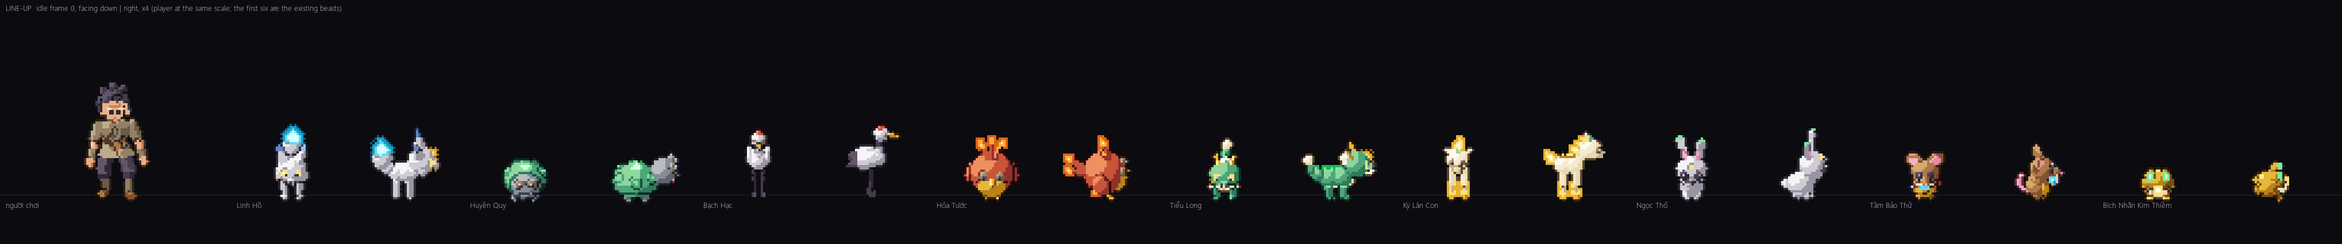
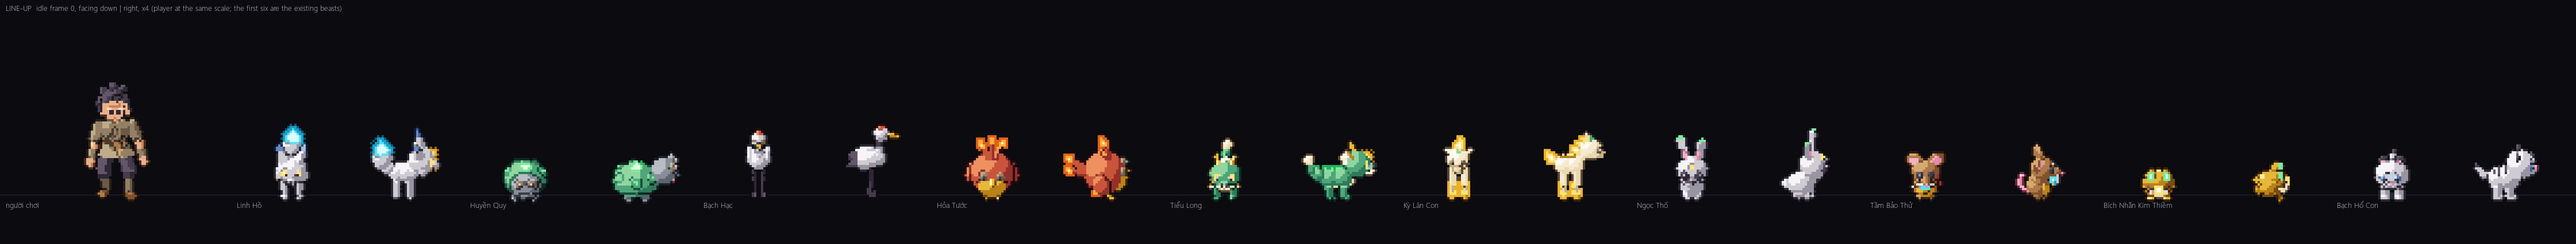
Toán tu tiên: linh thú đợt B - Bạch Hổ Con

diff --git a/art/src/beasts_b/bach_ho_con.py b/art/src/beasts_b/bach_ho_con.py
@@ -1,0 +1,103 @@
+"""Bạch Hổ Con: the white tiger cub, child of one of the four sacred beasts. Runs inside
+Blender (see scene.py).
+
+A chunky kitten-proportioned tiger: big round head with fluffy cheek ruffs, small round
+ears, a wide white muzzle with a pink nose, glowing ice-blue eyes (the metal-white aura of
+the White Tiger), a small glowing diamond on the brow, dark stripes (arcs over the back,
+brow and cheek strokes, rings on the tail and a dark tail tip), thick legs and big paws.
+Built on the shared quadruped rig (monsters_a/quadrupeds.py: IK legs, paws kept level);
+the clip poses come from common.quad_poses and get a cat's butt-wiggle before the pounce.
+"""
+from __future__ import annotations
+
+import math
+
+from common import (S, att, aim, ball, box, cute_eyes, eye_mats, eyes_bone, finish, glow, hexc, mat,
+                    merge, quad_armature, quad_extra_poses, quad_poses, set_ramp, tube, use_collection)
+
+
+def arc_stripe(name, m, y, zc, rx, rz, a0=28, a1=152, r=0.011, n=9):
+    """A stripe over the back: an arc in the x-z plane at depth y round (0, y, zc)."""
+    pts = []
+    for k in range(n):
+        a = math.radians(a0 + (a1 - a0) * k / (n - 1))
+        pts.append((rx * math.cos(a), y, zc + rz * math.sin(a)))
+    return tube(name, pts, [r * (0.6 if k in (0, n - 1) else 1.0) for k in range(n)], m, seg=6)
+
+
+def build():
+    use_collection("COL_bach_ho_con")
+    fur = mat("MAT_bhc_fur", "#cfcbd3", "bone")
+    fur_sh = mat("MAT_bhc_fur_shade", "#9894a2", "bone")
+    stripe = mat("MAT_bhc_stripe", "#2e2834", "hair")
+    inner = mat("MAT_bhc_inner", "#f6b0c4", "pink")
+    nose = mat("MAT_bhc_nose", "#e88aa6", "pink")
+    mark = glow("MAT_bhc_brow_mark", "#b0dcff", "ice", 3.0, halo=0)
+    mark["kit_priority"] = 3.0
+    eyes = eye_mats("bhc", hexc("#6488c4"))
+    set_ramp(eyes[0], "blue")           # saturated blue cub eyes; on white fur a pale glow vanished
+
+    HY, HZ = -0.18, 0.43
+    P = {"h": 0.23, "yf": -0.06, "yb": 0.085, "x": 0.085, "knee": 0.11,
+         "head": (-0.11, 0.30), "hlen": 0.2, "jaw": (-0.26, 0.38),
+         "tail": ((0.14, 0.24), (0.25, 0.27), (0.33, 0.36))}
+    arm = quad_armature("bach_ho_con", P, extra=[eyes_bone(HY - 0.1, HZ + 0.02)])
+    att(arm, "chest", ball("bhc_chest", (0.14, 0.13, 0.125), (0, -0.03, 0.25), fur),
+        ball("bhc_bib", (0.10, 0.06, 0.09), (0, -0.11, 0.23), fur),
+        arc_stripe("bhc_st1", stripe, -0.01, 0.25, 0.143, 0.13, 50, 130))
+    att(arm, "pelvis", ball("bhc_rump", (0.13, 0.12, 0.12), (0, 0.075, 0.24), fur),
+        arc_stripe("bhc_st3", stripe, 0.06, 0.245, 0.133, 0.122, 42, 138),
+        arc_stripe("bhc_st4", stripe, 0.125, 0.24, 0.115, 0.10, 55, 125))
+    hd = [ball("bhc_head", (0.185, 0.16, 0.155), (0, HY, HZ), fur),
+          ball("bhc_ruffl", (0.07, 0.07, 0.06), (0.125, HY + 0.01, HZ - 0.06), fur, seg=10, rings=6),
+          ball("bhc_ruffr", (0.07, 0.07, 0.06), (-0.125, HY + 0.01, HZ - 0.06), fur, seg=10, rings=6),
+          ball("bhc_padl", (0.045, 0.04, 0.036), (0.035, HY - 0.135, HZ - 0.065), fur, seg=10, rings=6),
+          ball("bhc_padr", (0.045, 0.04, 0.036), (-0.035, HY - 0.135, HZ - 0.065), fur, seg=10, rings=6),
+          ball("bhc_nose", (0.03, 0.02, 0.018), (0, HY - 0.165, HZ - 0.035), nose, seg=8, rings=5),
+          box("bhc_mark", (0.03, 0.012, 0.03), (0, HY - 0.152, HZ + 0.075), mark, rot=(-30, 45, 0)),
+          ]
+    for s in (1, -1):
+        # round ears: dark backs, pink fronts
+        hd += [ball(f"bhc_ear{s}", (0.055, 0.026, 0.055), (s * 0.10, HY + 0.035, HZ + 0.155), stripe, rot=(0, s * 25, 0), seg=10, rings=6),
+               ball(f"bhc_eari{s}", (0.042, 0.014, 0.04), (s * 0.098, HY + 0.017, HZ + 0.152), inner, rot=(0, s * 25, 0), seg=10, rings=6),
+               ball(f"bhc_earw{s}", (0.03, 0.015, 0.022), (s * 0.104, HY + 0.012, HZ + 0.13), fur, rot=(0, s * 25, 0), seg=8, rings=5)]
+        # brow strokes (diagonal, never a bar pattern) and two cheek strokes on each ruff
+        hd.append(tube(f"bhc_brow_stripe{s}", [(s * 0.03, HY - 0.14, HZ + 0.085), (s * 0.055, HY - 0.13, HZ + 0.11),
+                                                (s * 0.07, HY - 0.115, HZ + 0.125)], [0.007, 0.01, 0.006], stripe, seg=6))
+        hd.append(tube(f"bhc_cheek_stripe{s}", [(s * 0.19, HY + 0.0, HZ - 0.05), (s * 0.17, HY - 0.05, HZ - 0.06)],
+                       [0.008, 0.005], stripe, seg=6))
+    att(arm, "head", *hd)
+    att(arm, "eyes", *cute_eyes("bhc", 0.064, HY - 0.122, HZ + 0.015, 0.05, eyes))
+    att(arm, "jaw", aim("bhc_jaw", fur_sh, (0, HY - 0.07, HZ - 0.09), (0, HY - 0.15, HZ - 0.10), 0.04, 0.024, seg=8))
+    for side, sx in (("l", 1), ("r", -1)):
+        for leg, y in (("f", P["yf"]), ("b", P["yb"])):
+            x = sx * P["x"]
+            att(arm, f"{leg}{side}1", aim(f"bhc_{leg}{side}up", fur, (x, y, 0.20), (x, y, 0.10), 0.06 if leg == "b" else 0.055, 0.046, seg=8),
+                tube(f"bhc_{leg}{side}_stripe", [(x - 0.05, y - 0.03, 0.16), (x, y - 0.058, 0.15), (x + 0.05, y - 0.03, 0.16)],
+                     [0.006, 0.01, 0.006], stripe, seg=6) if leg == "f" else
+                tube(f"bhc_{leg}{side}_stripe", [(x + sx * 0.055, y - 0.03, 0.17), (x + sx * 0.062, y, 0.155), (x + sx * 0.055, y + 0.03, 0.165)],
+                     [0.006, 0.01, 0.006], stripe, seg=6))
+            att(arm, f"{leg}{side}2", aim(f"bhc_{leg}{side}lo", fur, (x, y, 0.11), (x, y, 0.035), 0.046, 0.044, seg=8))
+            att(arm, f"{leg}{side}3", ball(f"bhc_{leg}{side}paw", (0.052, 0.058, 0.034), (x, y - 0.01, 0.03), fur, seg=10, rings=6),
+                *[ball(f"bhc_{leg}{side}toe{k}", (0.012, 0.012, 0.012), (x + (k - 1) * 0.025, y - 0.064, 0.03), fur_sh, seg=6, rings=4)
+                  for k in range(3)])
+    # tail: white with two dark rings and a dark tip
+    att(arm, "tail1", aim("bhc_tail1", fur, (0, 0.13, 0.24), (0, 0.25, 0.27), 0.038, 0.032, seg=8),
+        aim("bhc_tailring1", stripe, (0, 0.185, 0.253), (0, 0.205, 0.258), 0.037, 0.035, seg=8))
+    att(arm, "tail2", aim("bhc_tail2", fur, (0, 0.25, 0.27), (0, 0.33, 0.36), 0.032, 0.03, seg=8),
+        aim("bhc_tailring2", stripe, (0, 0.28, 0.30), (0, 0.29, 0.313), 0.032, 0.031, seg=8),
+        aim("bhc_tailtip", stripe, (0, 0.315, 0.34), (0, 0.345, 0.385), 0.03, 0.012, seg=8))
+
+    A = {"stride": 0.032, "lift": 0.045, "hop": 0.06, "crouch": 0.065, "drop": 0.10, "lunge": 0.02}
+    poses = quad_poses(P, A)
+    poses.update(quad_extra_poses(P, drop=0.10, tail_wrap=75.0, head_rest=(12, 0, 55)))
+    # a cat before the pounce: the rump wiggles side to side, tail tip twitching
+    w = poses["windup"]
+    w[2] = merge(w[2], {"pelvis": {"r": (-4, 0, 9)}, "tail2": {"r": (30, 0, 26)}})
+    w[3] = merge(w[3], {"pelvis": {"r": (-4, 0, -9)}, "tail2": {"r": (30, 0, -26)}})
+    for i, p in enumerate(poses["idle"]):
+        p["eyes"] = {"s": (1, 0.2 if i == 3 else 1.0, 1)}
+    for p in poses["die"][3:]:
+        p["eyes"] = {"s": (1, 0.12, 1)}
+    finish(arm, poses, walk_fps=11)
+    return arm

diff --git a/art/src/beasts_b/scene.py b/art/src/beasts_b/scene.py
@@ -11,6 +11,7 @@ into the game folder.
 from __future__ import annotations
 
 import argparse
+import os
 import importlib
 import sys
 from pathlib import Path
@@ -92,6 +93,10 @@ def main():
         return
     hold = [o for o in bpy.data.objects if "holdout" in o.name]
     only = [c for c in a.clips.split(",") if c]
+    hide = [h for h in os.environ.get("BEASTS_B_HIDE", "").split(",") if h]
+    if hide and only:       # look-round debugging: drop parts by name (WIP renders only)
+        for o in [o for o in bpy.data.objects if any(h in o.name for h in hide)]:
+            bpy.data.objects.remove(o)
     clips = clips_from_actions(only)
     kit.render_animated(arm, a.id, clips, WIP if only else OUT, name_vi=name_vi, kind="beast",
                         holdout=hold or None)
